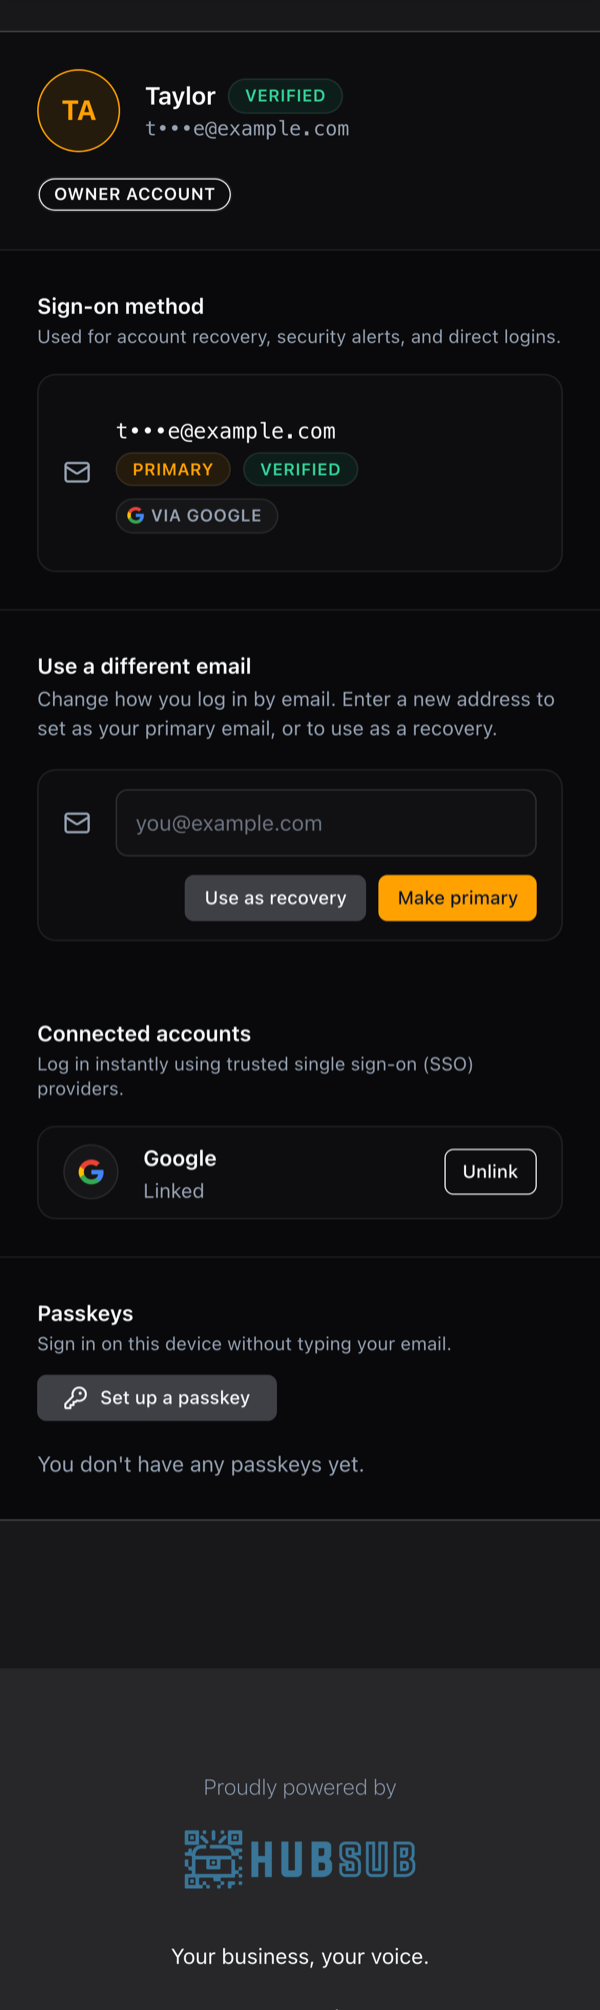
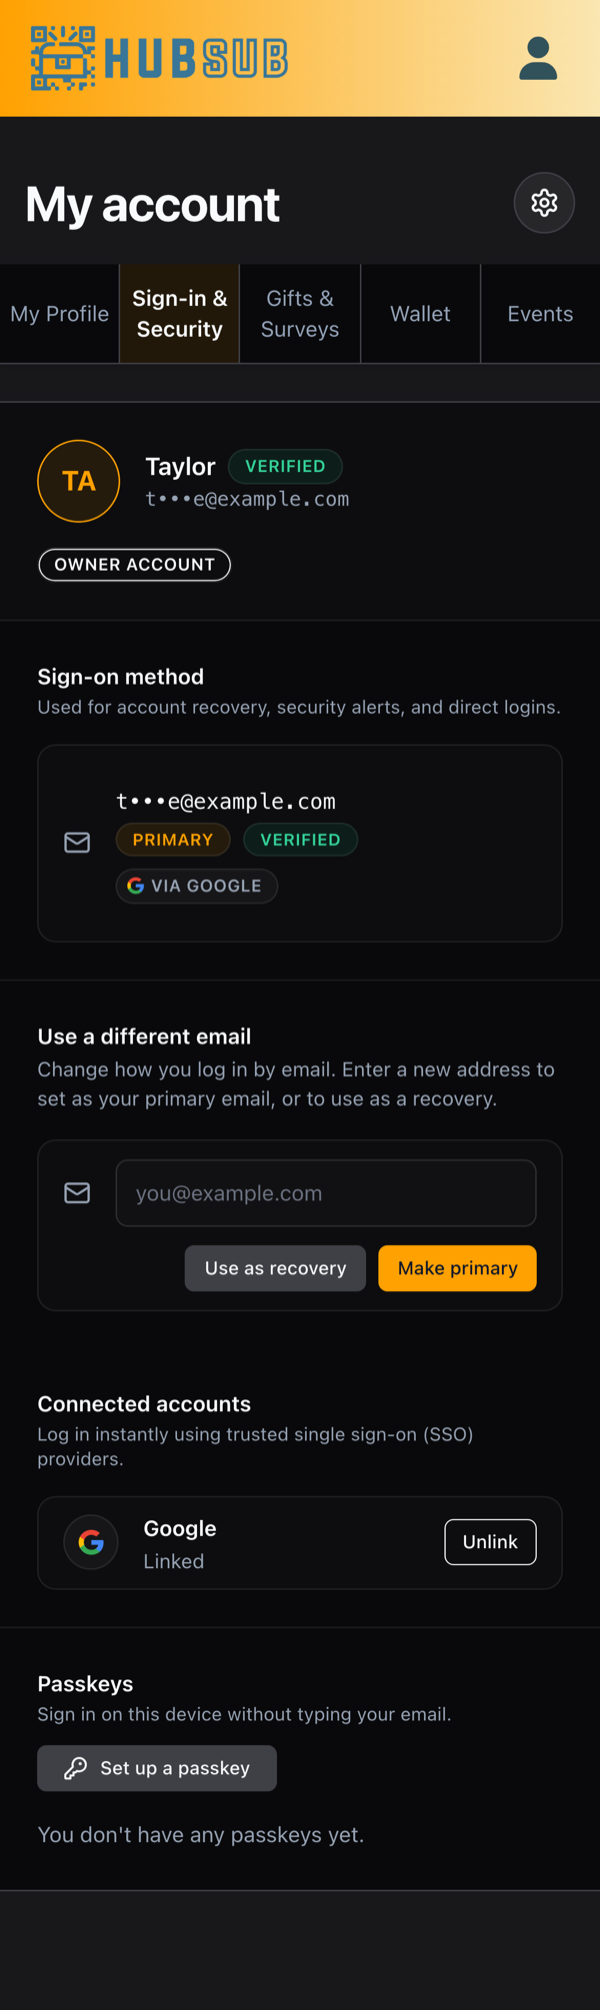
Add the member hub design system to the HubSub case study
A new Design System section shows the Figma foundations, header and
tabs, buttons and badges, panels, and footer for the member account.
Projects can now hold more than one design section, each with its own
note under the images.

Also recrop three phone screenshots from the top so they keep their
header and tab bar.

diff --git a/src/app/components/ProjectDetail.tsx b/src/app/components/ProjectDetail.tsx
@@ -30,6 +30,11 @@ import userBeforeSignon from '../../imports/hubsub_user_live_before_signon.png';
 import userAfterSignon from '../../imports/hubsub_user_live_after_signon.png';
 import userSignonPending from '../../imports/hubsub_user_live_signon_pending.png';
 import userPaletteOptions from '../../imports/hubsub_user_palette_options.png';
+import userDsFoundations from '../../imports/hubsub_user_ds_foundations.png';
+import userDsNavigation from '../../imports/hubsub_user_ds_navigation.png';
+import userDsActions from '../../imports/hubsub_user_ds_actions.png';
+import userDsCards from '../../imports/hubsub_user_ds_cards.png';
+import userDsFooter from '../../imports/hubsub_user_ds_footer.png';
 
 interface Screen {
   src: string;
@@ -43,6 +48,17 @@ interface BeforeAfter {
   change: string;
   before: Screen;
   after: Screen;
+}
+
+interface DesignSystem {
+  title: string;
+  intro: string;
+  points: string[];
+  overview: Screen;
+  foundations: Screen[];
+  components: Screen[];
+  /** Small line under the images. Defaults to the Figma note. */
+  note?: string;
 }
 
 interface ProjectData {
@@ -80,14 +96,8 @@ interface ProjectData {
   iterationsTitle?: string;
   beforeAfter?: BeforeAfter[];
   supportingScreens?: (Screen & { title: string })[];
-  designSystem?: {
-    title: string;
-    intro: string;
-    points: string[];
-    overview: Screen;
-    foundations: Screen[];
-    components: Screen[];
-  };
+  /** One section, or several shown one after another. */
+  designSystem?: DesignSystem | DesignSystem[];
   testing?: {
     title: string;
     status: string;
@@ -495,7 +505,47 @@ const projectsData: Record<string, ProjectData> = {
         caption: 'The same calendar on a phone, with the selected event stacked under the month.'
       }
     ],
-    designSystem: {
+    designSystem: [
+      {
+        title: 'Design System',
+        intro:
+          'To keep every account screen consistent across two themes and two screen sizes, I documented a design system for the member hub in Figma: color roles, type, spacing, radii, and the patterns each section is built from. Shared main components drive the header, tabs, and footer across all ten account reference frames.',
+        points: [
+          'Eight core tokens. Canvas, surface, raised, border, text, muted, brand, and active. Amber is saved for active states and primary actions.',
+          'One typeface, one exception. Inter carries the interface on a six-step scale. Menlo is kept for identity strings like email addresses.',
+          'Edit once, update everywhere. Linked main components for the navbar, tabs, header, and footer update every account frame when I change them.'
+        ],
+        overview: {
+          src: userDsFoundations,
+          alt: 'Foundations page: eight color roles with hex values, a type scale from Display 40 to Label 11, a 4px spacing scale, radii, and border and elevation styles',
+          caption: 'Foundations: color roles, type scale, spacing, radii, and borders.'
+        },
+        foundations: [
+          {
+            src: userDsNavigation,
+            alt: 'Header, title and tabs patterns: the red brand header on desktop and mobile, the My account title with five tabs on desktop and mobile, and passive, active, and focus tab states',
+            caption: 'Header, title, and tabs on desktop and mobile, with passive, active, and keyboard focus states.'
+          },
+          {
+            src: userDsActions,
+            alt: 'Button hierarchy with amber primary, grey secondary, and red destructive buttons, plus status badges for Active, Pending, Cancelled, Primary, Recovery, and Unverified',
+            caption: 'Buttons and status badges: amber for the next step, grey for secondary actions, red for destructive ones.'
+          }
+        ],
+        components: [
+          {
+            src: userDsCards,
+            alt: 'Gift perks and surveys, wallet balance, gift codes, and event panels in the dark theme',
+            caption: 'Gift, survey, wallet, and event panels, including their empty states.'
+          },
+          {
+            src: userDsFooter,
+            alt: 'Footer and newsletter pattern compared on desktop and mobile',
+            caption: 'The footer on desktop and mobile, kept muted to separate account tasks from site content.'
+          }
+        ]
+      },
+      {
       title: 'Light & Dark Theme',
       intro:
         'In progress. The member pages had inherited the staff app’s always-dark look. I explored three Tailwind neutral palettes in Figma, each with four tokens for light and dark, and chose Zinc: true neutral grays with almost no color cast. Brand and action colors stay fixed, so only the foundation changes.',
@@ -532,8 +582,10 @@ const projectsData: Record<string, ProjectData> = {
           alt: 'Settings dialog centered over a blurred account page, with a Theme switch showing moon and sun icons and a Notifications row',
           caption: 'After: the settings gear opens a dialog with the Light/Dark switch and a link to notifications.'
         }
-      ]
-    },
+      ],
+      note: 'The palette comparison is from my Figma file. The other images are screenshots of the real code. Click any image to view it full size.'
+      }
+    ],
     testing: {
       title: 'Hearing From Members',
       status: 'Next step',
@@ -703,6 +755,7 @@ export function ProjectDetail() {
   /** Hubsub logo: full mark on white. Custom Caliente: text must stay visible; red frame fills the card. */
   const isHubsubHero = Boolean(project?.heroContain);
   const findingsLabels = project?.researchFindingsLabels ?? defaultFindingsLabels;
+  const designSystems = project?.designSystem ? ([] as DesignSystem[]).concat(project.designSystem) : [];
   const hasPrototypeLink = project?.prototype.link && project.prototype.link !== '#';
   const figmaEmbedUrl =
     hasPrototypeLink && project?.prototype.link.includes('figma.com')
@@ -918,12 +971,12 @@ export function ProjectDetail() {
         </div>
       </section>
 
-      {project.designSystem ? (
-        <section className="mb-16">
-          <h2 className="text-3xl font-bold text-foreground mb-8">{project.designSystem.title}</h2>
-          <p className="text-foreground/90 leading-relaxed mb-6">{project.designSystem.intro}</p>
+      {designSystems.map((system) => (
+        <section key={system.title} className="mb-16">
+          <h2 className="text-3xl font-bold text-foreground mb-8">{system.title}</h2>
+          <p className="text-foreground/90 leading-relaxed mb-6">{system.intro}</p>
           <ul className="grid gap-4 md:grid-cols-3 mb-8">
-            {project.designSystem.points.map((point) => {
+            {system.points.map((point) => {
               const [lead, ...rest] = point.split('. ');
               return (
                 <li key={point} className="bg-card border border-border rounded-xl p-5 text-sm leading-relaxed">
@@ -934,23 +987,25 @@ export function ProjectDetail() {
             })}
           </ul>
           <div className="space-y-6">
-            <SystemFigure screen={project.designSystem.overview} />
+            <SystemFigure screen={system.overview} />
             <div className="grid gap-6 md:grid-cols-2 items-start">
-              {project.designSystem.foundations.map((screen) => (
+              {system.foundations.map((screen) => (
                 <SystemFigure key={screen.caption} screen={screen} />
               ))}
             </div>
-            {project.designSystem.components.length ? (
+            {system.components.length ? (
               <div className="grid gap-6 md:grid-cols-2 items-start">
-                {project.designSystem.components.map((screen) => (
+                {system.components.map((screen) => (
                   <SystemFigure key={screen.caption} screen={screen} />
                 ))}
               </div>
             ) : null}
-            <p className="text-xs text-foreground">Frames from my Figma file. Click any image to view it full size.</p>
+            <p className="text-xs text-foreground">
+              {system.note ?? 'Frames from my Figma file. Click any image to view it full size.'}
+            </p>
           </div>
         </section>
-      ) : null}
+      ))}
 
       {project.testing ? (
         <section className="mb-16">
